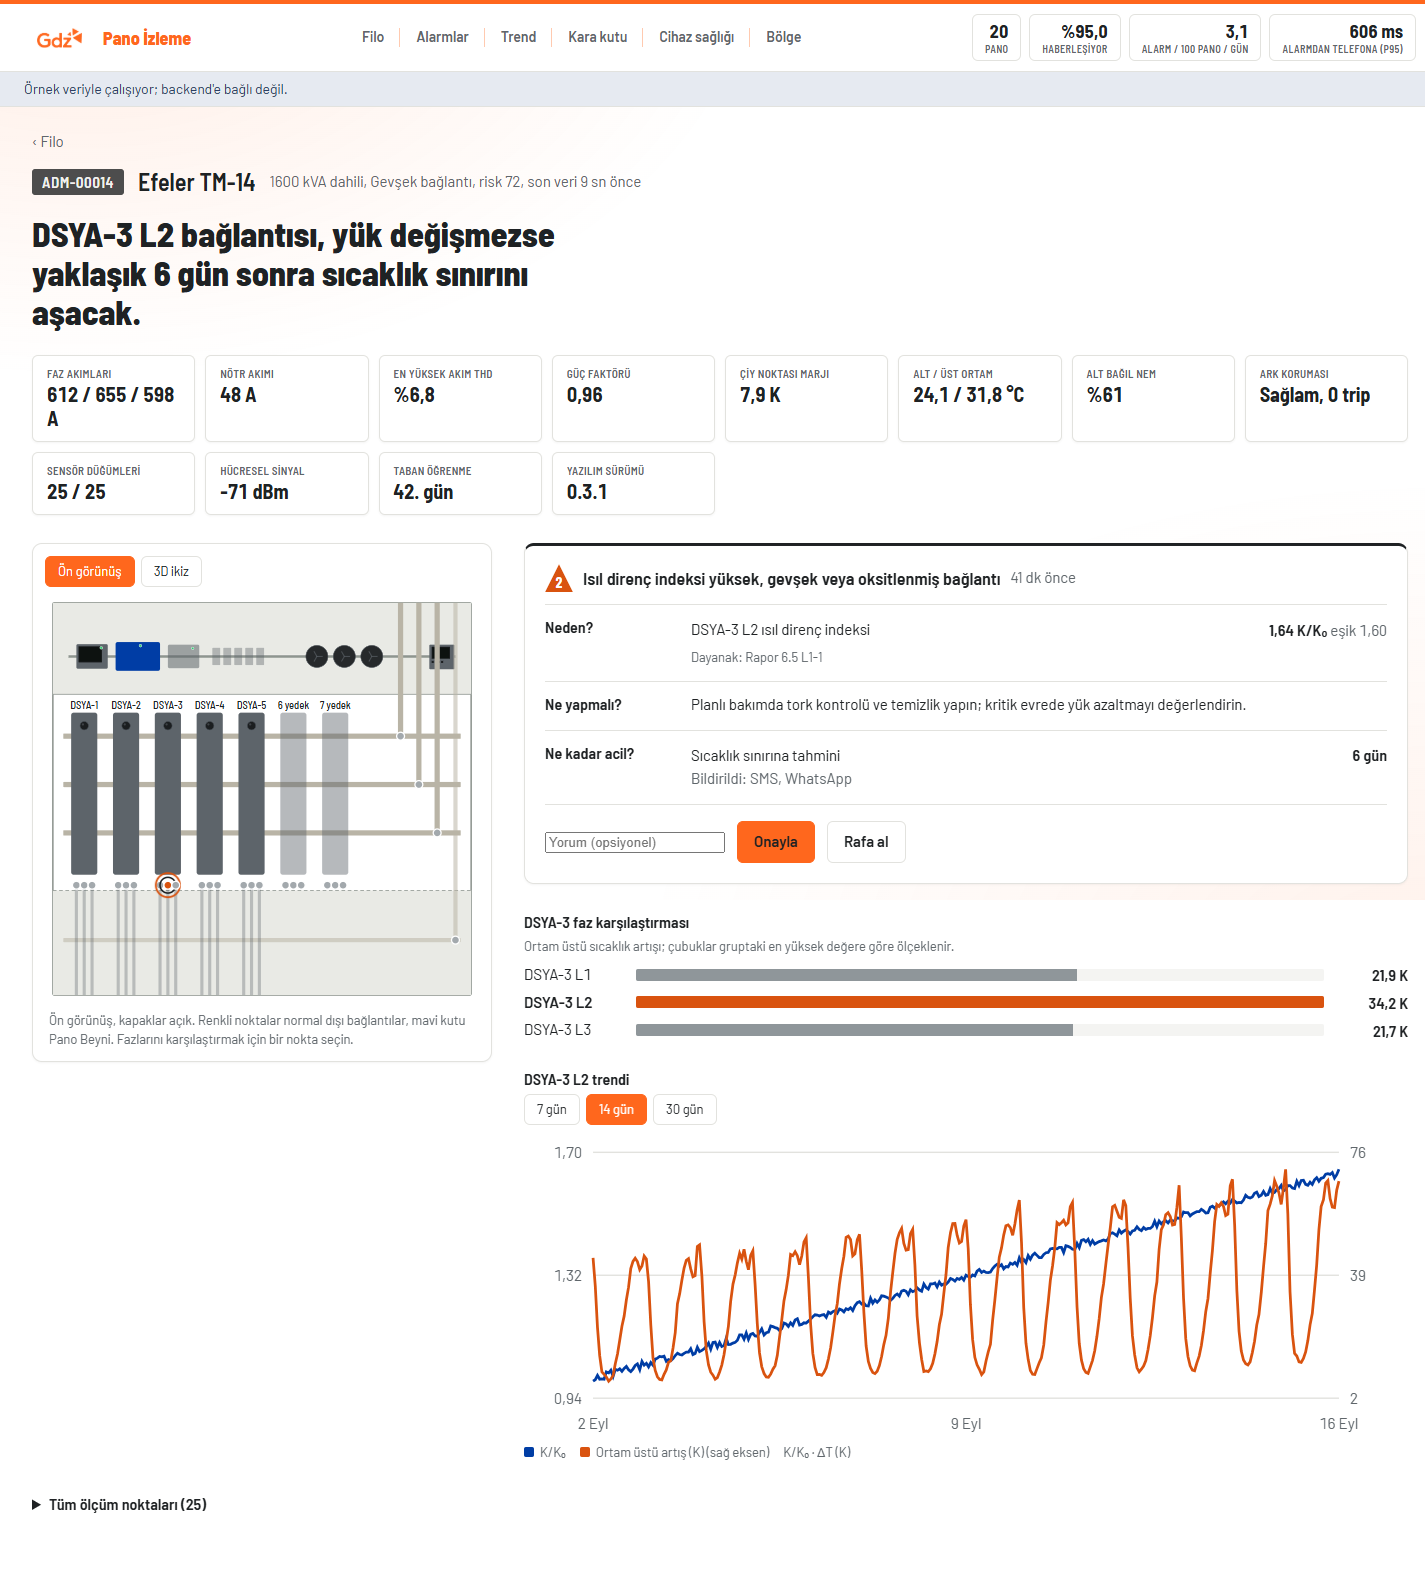
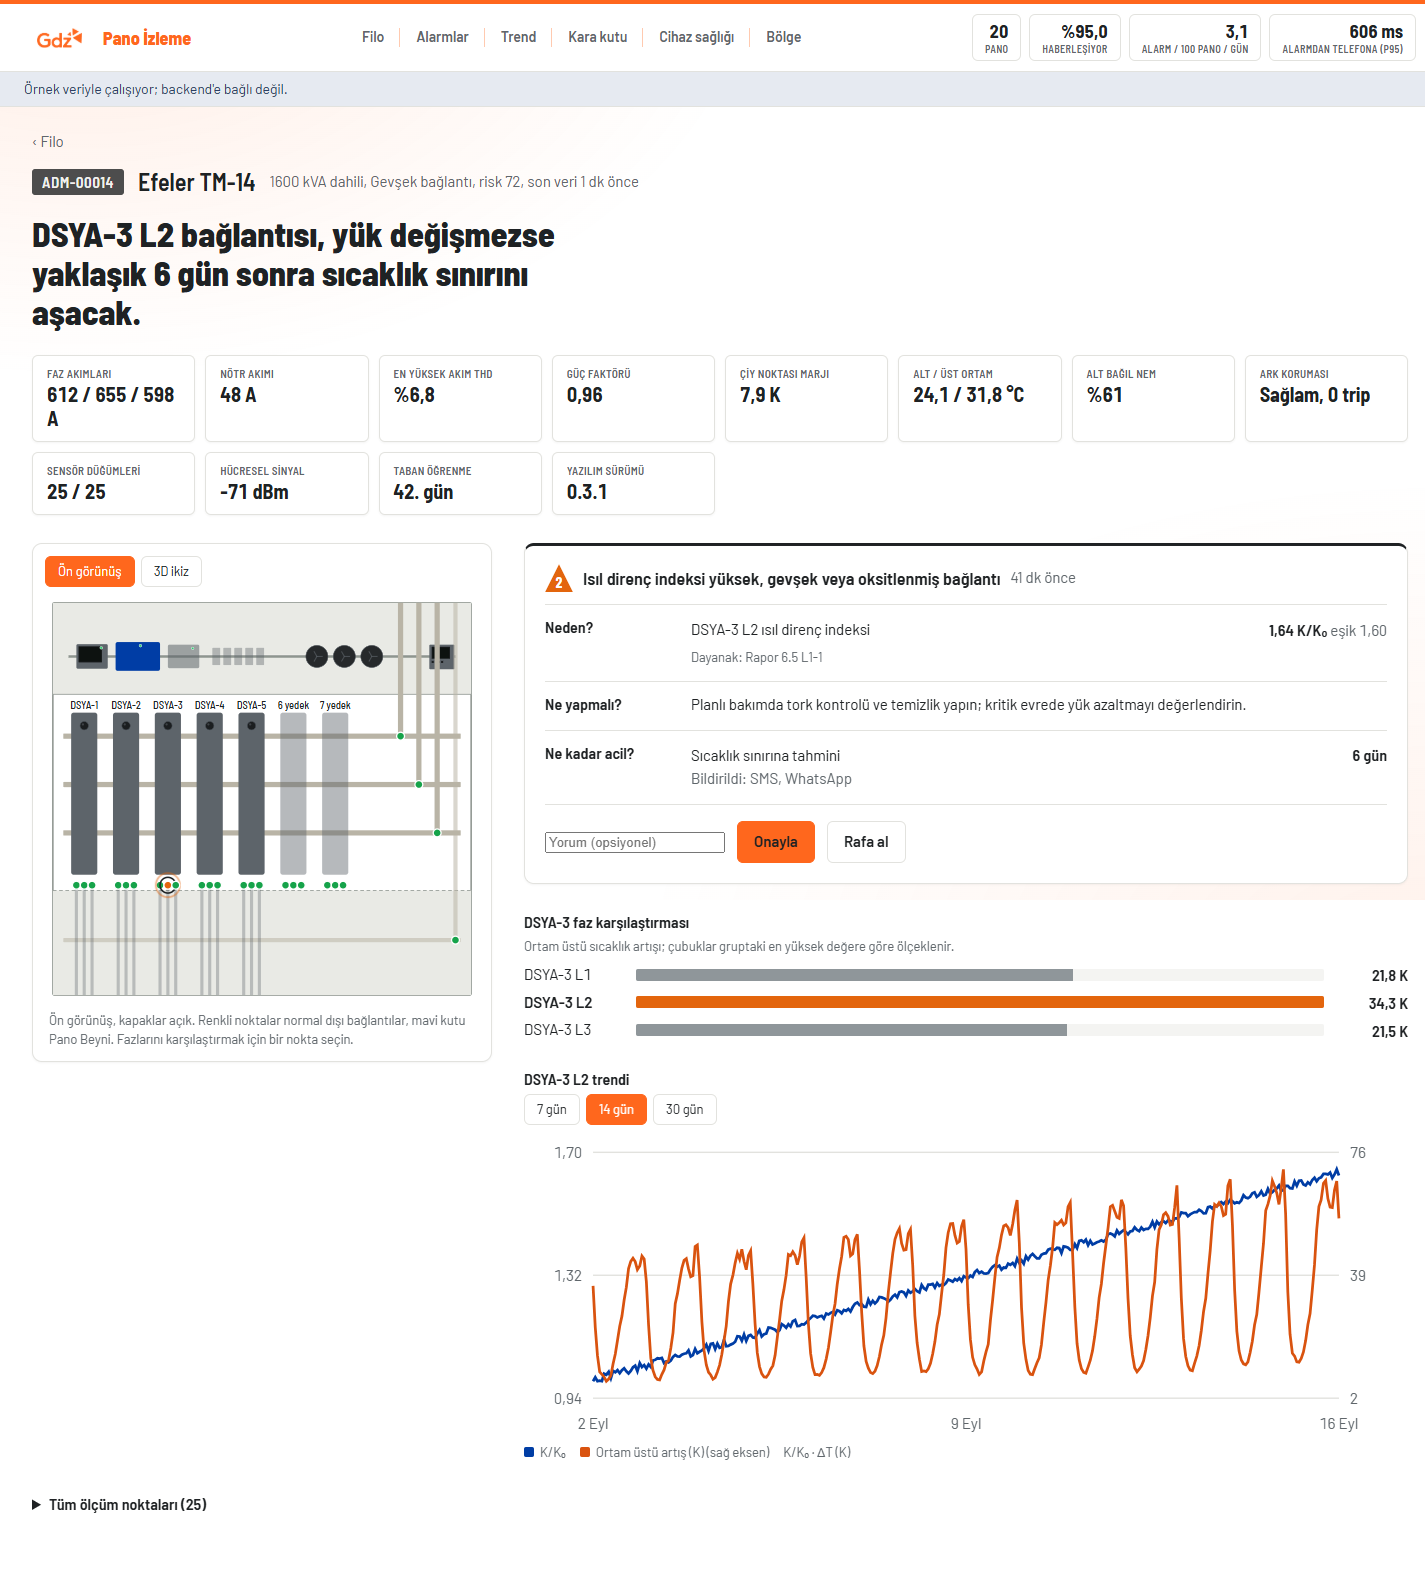
fix(frontend): P1/P2 renk benzerligi ve Sistem/Normal pasif gri sorunu
Kritik (P1) koyulastirildi, Alarm (P2) netlestirildi -- eskiden
neredeyse ayni parlaklikta olduklari icin ayirt edilmiyorlardi. Sistem
pasif griden maviye (teal), Normal pasif griden yesile cevrildi.
Ikiz3D.tsx fallback renkleri senkron guncellendi, 8 ekran goruntusu
yenilendi.

Changed region(s): [[0.4014, 0.7486, 0.9572, 0.8733], [0.4014, 0.0936, 0.4323, 0.1248]]

diff --git a/frontend/src/theme.css b/frontend/src/theme.css
@@ -14,16 +14,22 @@
   --dim: #5f666b;
   --line: #e2e2de;
 
-  --p1: #c62828;
-  --p2: #d9530f; /* marka turuncusundan (#FF671D) kasitli olarak ayristirilmis ton, plan §3.2 */
+  /* P1/P2 daha once cok yakin gorunuyordu (ayni ton ailesi + neredeyse ayni parlaklik,
+     kullanici bulgusu). P1 koyulastirildi, P2 aydinlatilip daha net turuncuya cekildi —
+     artik hem ton hem parlaklikta belirgin fark var; marka turuncusundan (#FF671D) hala
+     kasitli olarak ayristirilmis (plan §3.2). Sistem/Normal artik pasif gri degil, kullanici
+     talebiyle pozitif renkler: Sistem mavi (--ours'tan farkli bir ton — "bizim donanimimiz"
+     mavisiyle karismasin diye), Normal yesil. */
+  --p1: #a51c1c;
+  --p2: #e3650d;
   --p3: #c99700;
-  --sys: #5a6275;
+  --sys: #0e7490;
   --ours: #003da5; /* ADM/GDZ mavisi: bizim donanimimiz, secim, odak halkasi */
 
   --brand: #ff671d; /* ADM/GDZ birincil rengi — YALNIZCA marka katmani */
   --brand-deep: #e2520c; /* acik zeminde grafik oge (3,9:1) */
 
-  --dot: #a3a9ad;
+  --dot: #16a34a;
   --bar: #b9b4a6;
   --device: #5d646a;
   --cap-body: #26292b; /* gercek kompanzasyon kondansatoru govde rengi (referans foto, TASARIM-REVIZYONU.md §15) */

diff --git a/frontend/src/components/Ikiz3D.tsx b/frontend/src/components/Ikiz3D.tsx
@@ -63,10 +63,10 @@ function buildScene(stage: HTMLDivElement, tip: HTMLDivElement, onPick: (pt: str
   const css = getComputedStyle(stage);
   const tok = (name: string, fallback: string) => css.getPropertyValue(name).trim() || fallback;
   const colors: Record<PointState, string> = {
-    normal: tok("--dot", "#a3a9ad"),
+    normal: tok("--dot", "#16a34a"),
     warn: tok("--p3", "#c99700"),
-    alarm: tok("--p2", "#dd6418"),
-    critical: tok("--p1", "#c62828"),
+    alarm: tok("--p2", "#e3650d"),
+    critical: tok("--p1", "#a51c1c"),
     stale: tok("--line", "#c7cac3"),
   };
   const ours = tok("--ours", "#2c63c9");

diff --git a/frontend/TASARIM-REVIZYONU.md b/frontend/TASARIM-REVIZYONU.md
@@ -785,6 +785,41 @@ nav çizgisi (artık temiz), Yunusemre noktası (artık ilçe içinde), sürükl
 edildi, konsolda hata yok. `assets/ekran/`'daki 8 dosyanın tamamı (marka metni + nav her sayfada
 değiştiği için) yeniden yenilendi.
 
+## 24. P1/P2 renk benzerliği, Sistem/Normal pasif gri sorunu (16 Eylül, aynı gün)
+
+Kullanıcı: "Kritik ve alarmın renkleri çok benziyor onları değiştir. Sistem ve normal çok pasif
+gibi duruyor, gri yerine yeşil gibi pozitif bir renk mi seçsek — mesela sistem mavi, normal yeşil
+gibi."
+
+**Kök neden analizi (HSL):** Eski `--p1` (#c62828, hue≈0°) ve `--p2` (#d9530f, hue≈20°) sadece ton
+olarak değil, **parlaklıkta da neredeyse aynıydı** (L≈47% / 45%) — kullanıcının "çok benziyor"
+algısının asıl nedeni muhtemelen bu parlaklık örtüşmesiydi, salt ton yakınlığından çok. Ayrıca eski
+`--p2`'nin hue'su (20.2°) marka turuncusu `--brand`'e (#ff671d, hue≈19.6°) neredeyse özdeşti — ayrı
+bir gözlem, bu turda değişmedi.
+
+**Değişiklik (`theme.css`):**
+
+```css
+--p1: #a51c1c;  /* eskiden #c62828 — koyulaştırıldı (L≈38%), P2'den net ayrıştı */
+--p2: #e3650d;  /* eskiden #d9530f — aydınlatılıp netleştirildi (L≈46%, hue≈23°) */
+--p3: #c99700;  /* değişmedi */
+--sys: #0e7490; /* eskiden #5a6275 (pasif gri) — "sistem" için mavi-yeşil (teal), --ours'un
+                   (ADM/GDZ donanım mavisi) markasıyla karışmasın diye ayrı bir ton seçildi */
+--dot: #16a34a; /* eskiden #a3a9ad (pasif gri) — normal durum için pozitif yeşil */
+```
+
+`Ikiz3D.tsx`'teki `tok()` fallback string'leri (JS içindeki hardcoded renkler, CSS token'ı
+bulunamazsa devreye giren yedek) aynı değerlere güncellendi ki 3D ikiz her zaman 2D ile birebir
+tutarlı kalsın.
+
+Bu değişiklikler tasarım token'ları (sunum katmanı) — kural 10 (alarm eşiklerini frontend'de
+hardcode etme) burada geçerli değil, çünkü hiçbir eşik/iş mantığı değişmedi, sadece renk sabitleri.
+
+**Doğrulama:** `tsc --noEmit` temiz, 71/71 test yeşil, `vite build` başarılı. Chrome-devtools ile
+Filo Listesi, Risk Matrisi, Bölge Haritası, 3D ikiz (normal durum artık yeşil kablo pabucu) ve
+mobil (390px) görsel olarak kontrol edildi, konsolda hata yok. `assets/ekran/`'daki 8 dosyanın
+tamamı (renkler hemen hemen her sayfada görünür olduğu için) yeniden yenilendi.
+
 ## Kaynaklar
 
 - ADM Elektrik: <https://www.admelektrik.com.tr/> · GDZ Elektrik: <https://www.gdzelektrik.com.tr/>

diff --git a/STATUS.md b/STATUS.md
@@ -9,10 +9,20 @@
 > PLAN.md'de yalnızca kutucuk işaretleme ve "Günlük Kayıt" satırı ekleme yapılır (kural: ortak dosya).
 > Her önemli adımdan sonra bu dosya güncellenir. Dal: `berke/frontend` (origin'e push edildi).
 
-**Son güncelleme:** 16 Eylül 2026 (Nav çizgi artefaktı, "Pano İzleme" marka metni, harita
-nokta/sürükleme düzeltmeleri, §25).
-**Son commit:** Seçili nav butonundaki tuhaf çizgi giderildi; marka "Pano İzleme" + turuncu oldu;
-haritada nokta artık kendi ilçesi dışına taşmıyor; sürükleme zoom olmadan da çalışıyor.
+**Son güncelleme:** 16 Eylül 2026 (P1/P2 renk benzerliği ve Sistem/Normal pasif gri sorunu
+düzeltildi, §26).
+**Son commit:** Kritik (P1) koyulaştırıldı, Alarm (P2) netleştirildi — artık net ayrışıyor; Sistem
+pasif griden maviye (teal), Normal pasif griden yeşile çevrildi.
+
+## 26. P1/P2 renk benzerliği, Sistem/Normal pasif gri sorunu (kullanıcı geri bildirimi)
+
+HSL analizi: eski P1/P2 hue'dan çok PARLAKLIKTA (L≈47%/45%) neredeyse aynıydı — asıl benzerlik
+nedeni buydu. P1 koyulaştırıldı (#a51c1c), P2 netleştirildi (#e3650d). Sistem (#0e7490, teal —
+--ours donanım mavisiyle karışmasın diye ayrı ton) ve Normal (#16a34a, yeşil) artık pasif gri değil,
+pozitif renkler. `Ikiz3D.tsx` fallback'leri de senkron güncellendi. Detay: TASARIM-REVIZYONU.md §24.
+
+`tsc`/71 test/`vite build` temiz; 8 ekran görüntüsü yenilendi; `berke/frontend`'e commit edilecek
+(main'e asla).
 
 ## 25. Nav çizgisi, marka metni, harita nokta/sürükleme (kullanıcı geri bildirimi)
 
